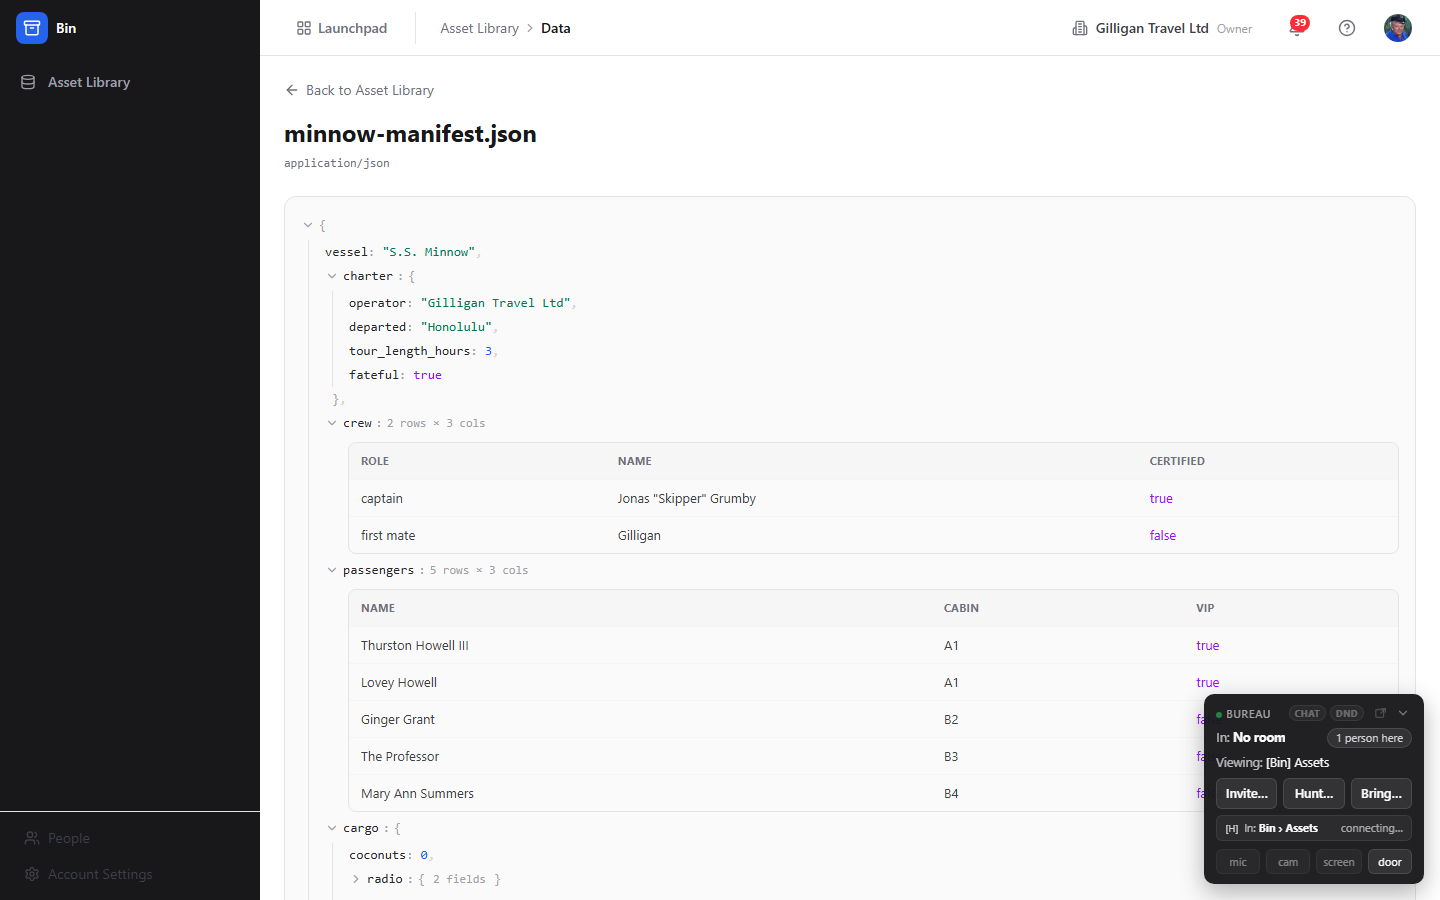
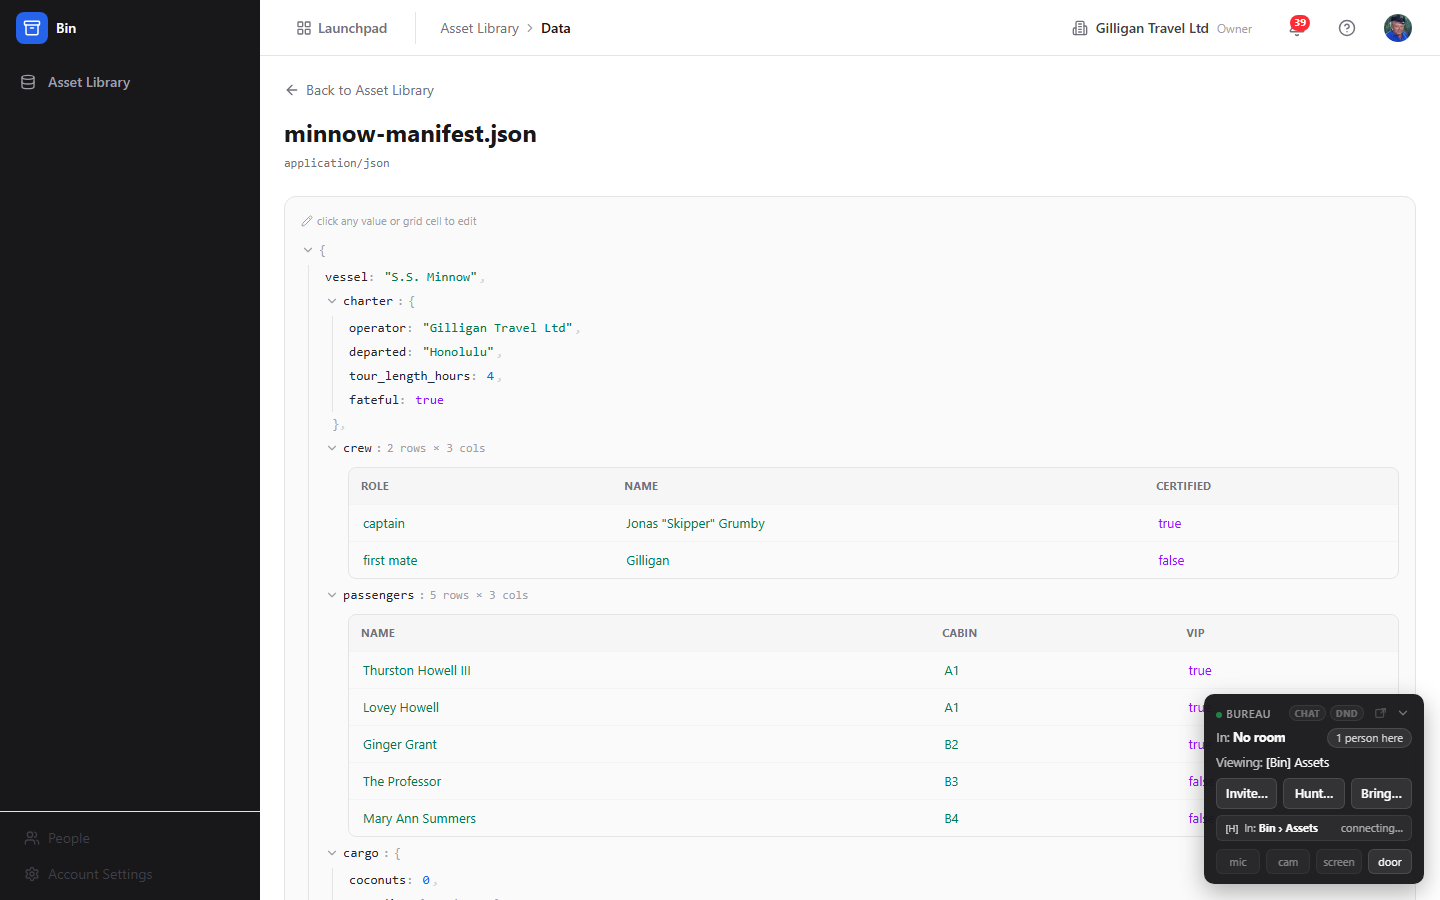
fix(bin): accurate scan_status in commit response + regenerate tree screenshots
commitVersion now reflects the post-commit clean scan_status in its returned
asset (uploadVersionBytes had captured the pre-clean 'pending' snapshot), so the
patch/append/tree mutation responses are accurate. Regenerated screenshots show
the editable JSON tree (edit hint + persisted edits in the embedded grids).

diff --git a/apps/bin-api/src/services/data.service.ts b/apps/bin-api/src/services/data.service.ts
@@ -161,6 +161,11 @@ async function commitVersion(
     .update(binAssets)
     .set({ scan_status: 'clean' })
     .where(and(eq(binAssets.id, assetId), eq(binAssets.scan_status, 'pending')));
+  // Reflect the clean state in the returned asset (uploadVersionBytes captured
+  // it as 'pending' before this flip), so the mutation response is accurate.
+  if (result.asset && result.asset.scan_status === 'pending') {
+    result.asset.scan_status = 'clean';
+  }
   return result;
 }
 
